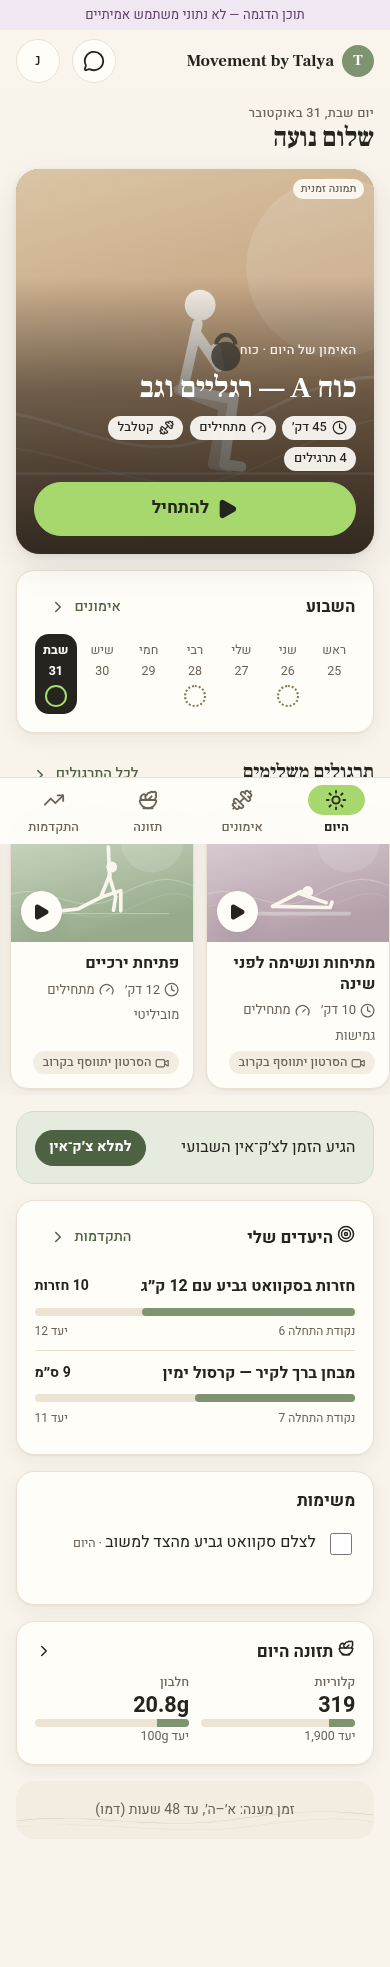
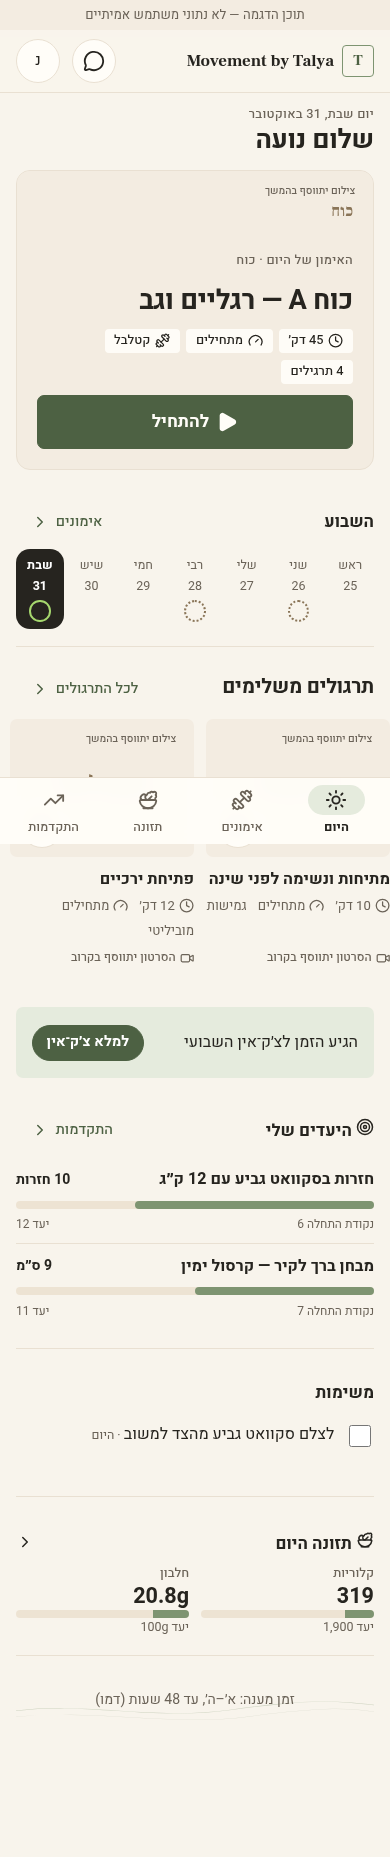
Refine visual design with quieter surfaces and honest photo fallbacks

diff --git a/web/src/styles.css b/web/src/styles.css
@@ -21,12 +21,12 @@
   --danger-soft: #f6e2de;
   --warn: #8a5d12;
   --warn-soft: #f6ead2;
-  --radius-lg: 24px;
-  --radius: 18px;
-  --radius-sm: 12px;
+  --radius-lg: 14px;
+  --radius: 10px;
+  --radius-sm: 7px;
   --tap: 2.75rem; /* 44px at default size, grows with text size */
-  --shadow: 0 1px 2px rgba(38, 36, 31, 0.05), 0 6px 20px rgba(38, 36, 31, 0.06);
-  --shadow-lift: 0 2px 6px rgba(38, 36, 31, 0.08), 0 14px 34px rgba(38, 36, 31, 0.1);
+  --shadow: none;
+  --shadow-lift: none;
   --font-head: 'Frank Ruhl Libre', 'Times New Roman', serif;
   --font-body: 'Heebo', system-ui, -apple-system, 'Segoe UI', Arial, sans-serif;
   font-family: var(--font-body);
@@ -45,7 +45,7 @@ button, input, select, textarea { font: inherit; color: inherit; }
 img, video { max-width: 100%; }
 
 /* Type scale */
-h1, h2 { font-family: var(--font-head); font-weight: 700; letter-spacing: -0.01em; }
+h1, h2 { font-family: var(--font-body); font-weight: 700; letter-spacing: -0.01em; }
 h1 { font-size: 1.65rem; line-height: 1.2; margin: 0 0 0.5rem; }
 h2 { font-size: 1.25rem; line-height: 1.25; margin: 0 0 0.5rem; }
 h3 { font-size: 1.05rem; line-height: 1.3; font-weight: 700; margin: 0 0 0.4rem; }
@@ -85,14 +85,14 @@ bdi { unicode-bidi: isolate; }
 }
 .tabbar a .pill { display: grid; place-items: center; width: 3.6rem; height: 1.9rem; border-radius: 999px; transition: background 0.2s; }
 .tabbar a.active { color: var(--ink); font-weight: 700; }
-.tabbar a.active .pill { background: var(--accent); }
+.tabbar a.active .pill { background: var(--sage-soft); }
 @media (min-width: 900px) {
   .tabbar { position: sticky; top: 3.4rem; max-width: 760px; margin: 0.5rem auto 0; border: 1px solid var(--line); border-radius: 22px; box-shadow: var(--shadow); }
   .main { padding-bottom: 2rem; }
 }
 .coachnav { display: flex; gap: 0.35rem; overflow-x: auto; padding: 0.5rem 1rem; border-block-end: 1px solid var(--line); background: var(--offwhite); }
 .coachnav a { white-space: nowrap; padding: 0.45rem 1rem; border-radius: 999px; text-decoration: none; color: var(--muted); min-height: 2.5rem; display: inline-flex; align-items: center; gap: 0.4rem; font-weight: 500; }
-.coachnav a.active { background: var(--accent); color: var(--ink); font-weight: 700; }
+.coachnav a.active { background: var(--sage-soft); color: var(--ink); font-weight: 700; }
 
 /* Surfaces */
 .card { background: var(--offwhite); border: 1px solid var(--line); border-radius: var(--radius); padding: 1.1rem; box-shadow: var(--shadow); margin-block-end: 1rem; }
@@ -163,8 +163,8 @@ textarea.input { min-height: 5.5rem; resize: vertical; }
 .badge.ok { background: var(--accent); color: var(--ink); }
 .badge.warn { background: var(--warn-soft); color: var(--warn); }
 .badge.danger { background: var(--danger-soft); color: var(--danger); }
-.badge.demo { background: #f1e7f3; color: #6a4572; }
-.demo-banner { background: #f1e7f3; color: #5e3f66; text-align: center; padding: 0.3rem; font-size: 0.82rem; }
+.badge.demo { background: var(--beige); color: var(--muted); }
+.demo-banner { background: var(--beige); color: var(--muted); text-align: center; padding: 0.3rem; font-size: 0.82rem; }
 .alert { padding: 0.75rem 1rem; border-radius: var(--radius-sm); background: var(--warn-soft); color: #6d4c16; margin-block-end: 0.75rem; }
 .alert.error { background: var(--danger-soft); color: var(--danger); }
 .alert.ok { background: var(--sage-soft); color: var(--sage-dark); }
@@ -316,3 +316,29 @@ textarea.input { min-height: 5.5rem; resize: vertical; }
 .attention-queue > .list > .card { margin: 0; border: 1px solid var(--line); }
 .chatlist { min-height: 12rem; background: var(--beige); }
 .chatlist .bubble { overflow-wrap: anywhere; }
+
+/* Editorial refinement: typography and real imagery carry the identity. */
+.page-intro { background: transparent; padding: .5rem 0 1rem; border-radius: 0; border-block-end: 1px solid var(--line); }
+.topbar { border-block-end: 1px solid var(--line); }
+.brand-mark { background: transparent; color: var(--sage-dark); border: 1px solid var(--sage); border-radius: 4px; }
+.cover-placeholder { background: var(--beige); display: flex; align-items: center; justify-content: center; padding: 2rem 1rem; }
+.cover-category { color: var(--sand-dark); font-family: var(--font-head); font-size: 1.7rem; font-weight: 700; }
+.cover-placeholder .ph-tag { background: transparent; font-size: .65rem; border-radius: 0; }
+.cover-placeholder.scrim::after { display: none; }
+.hero:has(.cover-placeholder) { background: var(--beige); color: var(--ink); border: 1px solid var(--line); }
+.hero:has(.cover-placeholder) .cover { aspect-ratio: auto; height: 5rem; justify-content: flex-start; padding: 1.25rem; }
+.hero:has(.cover-placeholder) .cover-category { font-size: 1rem; }
+.hero:has(.cover-placeholder) .hero-body { position: relative; padding: 0 1.25rem 1.25rem; }
+.hero:has(.cover-placeholder) .eyebrow { color: var(--muted); }
+.hero:has(.cover-placeholder) .display { font-family: var(--font-body); font-size: 1.7rem; line-height: 1.35; }
+.hero .btn.accent { background: var(--sage-dark); color: var(--offwhite); border-color: var(--sage-dark); border-radius: 7px; }
+.hero-body .tag { border-radius: 4px; }
+.wcard { border: 0; background: transparent; border-radius: 0; }
+.wcard .cover { border-radius: var(--radius-sm); }
+.wcard .wbody { padding-inline: 0; padding-block: .75rem 1rem; }
+.wcard .play { width: 2.75rem; height: 2.75rem; border: 1px solid var(--line); }
+.wcard .badge { background: transparent; padding-inline: 0; border-radius: 0; font-size: .75rem; }
+.wcard .badge.ok { color: var(--sage-dark); }
+.today-page > .card { background: transparent; border-width: 0 0 1px; border-radius: 0; padding-inline: 0; }
+.today-page > .card.sage { background: var(--sage-soft); border: 0; border-radius: var(--radius-sm); padding-inline: 1rem; }
+.presc-chips .tag { border-radius: 4px; }

diff --git a/web/src/client/ShareCard.tsx b/web/src/client/ShareCard.tsx
@@ -52,22 +52,6 @@ function drawCover(ctx: CanvasRenderingContext2D, img: HTMLImageElement) {
   ctx.drawImage(img, (SIZE.w - w) / 2, (SIZE.h - h) / 2, w, h);
 }
 
-function flowLines(ctx: CanvasRenderingContext2D, color: string, alpha: number, y0: number) {
-  ctx.save();
-  ctx.strokeStyle = color;
-  ctx.globalAlpha = alpha;
-  ctx.lineCap = 'round';
-  for (const [dy, lw] of [[0, 6], [70, 3.5]] as const) {
-    ctx.lineWidth = lw;
-    ctx.beginPath();
-    ctx.moveTo(-40, y0 + dy);
-    ctx.bezierCurveTo(260, y0 - 160 + dy, 520, y0 + 200 + dy, 780, y0 + 20 + dy);
-    ctx.bezierCurveTo(920, y0 - 70 + dy, 1020, y0 - 40 + dy, 1120, y0 + 10 + dy);
-    ctx.stroke();
-  }
-  ctx.restore();
-}
-
 function wrap(ctx: CanvasRenderingContext2D, text: string, maxW: number, maxLines: number): string[] {
   const words = text.split(/\s+/);
   const lines: string[] = [];
@@ -87,7 +71,7 @@ function Editor({ d }: { d: any }) {
   const user = useUser();
   const canvas = useRef<HTMLCanvasElement>(null);
   const stats = useMemo(() => shareStats(d), [d]);
-  const [bg, setBg] = useState<Bg>('sage');
+  const [bg, setBg] = useState<Bg>('sand');
   const [photo, setPhoto] = useState<HTMLImageElement | null>(null);
   const [note, setNote] = useState('');
   // Personal details (name, note, own photo) are off until the user turns them on.
@@ -129,14 +113,11 @@ function Editor({ d }: { d: any }) {
       } else if (bg === 'sea') {
         drawCover(ctx, await loadImage('/placeholders/sea.svg'));
       } else {
-        const g = ctx.createLinearGradient(0, 0, 300, SIZE.h);
-        if (bg === 'sand') { g.addColorStop(0, '#f8efe2'); g.addColorStop(1, '#d9bf98'); }
-        else { g.addColorStop(0, '#a3b596'); g.addColorStop(1, '#43563b'); }
-        ctx.fillStyle = g;
+        ctx.fillStyle = bg === 'sand' ? '#f3ece1' : '#4d6143';
         ctx.fillRect(0, 0, SIZE.w, SIZE.h);
-        ctx.fillStyle = dark ? 'rgba(255,255,255,0.10)' : 'rgba(126,148,113,0.16)';
-        ctx.beginPath(); ctx.arc(820, 420, 330, 0, Math.PI * 2); ctx.fill();
-        flowLines(ctx, dark ? '#ffffff' : '#7e9471', dark ? 0.28 : 0.45, 760);
+        ctx.strokeStyle = bg === 'sand' ? '#dccdb6' : '#7e9471';
+        ctx.lineWidth = 2;
+        ctx.beginPath(); ctx.moveTo(90, 250); ctx.lineTo(SIZE.w - 90, 250); ctx.stroke();
       }
       if (dark) {
         // Contrast scrim behind text over imagery.
@@ -258,8 +239,8 @@ function Editor({ d }: { d: any }) {
     ['sets', t('share.sets'), stats.sets != null], ['volume', t('share.volume'), stats.volume != null], ['effort', t('share.effort'), stats.effort != null],
   ];
   const bgs: { k: Bg; label: string; style: React.CSSProperties }[] = [
-    { k: 'sage', label: t('share.bg.sage'), style: { background: 'linear-gradient(160deg,#a3b596,#43563b)' } },
-    { k: 'sand', label: t('share.bg.sand'), style: { background: 'linear-gradient(160deg,#f8efe2,#d9bf98)' } },
+    { k: 'sage', label: t('share.bg.sage'), style: { background: '#4d6143' } },
+    { k: 'sand', label: t('share.bg.sand'), style: { background: '#f3ece1' } },
     { k: 'sea', label: t('share.bg.sea'), style: { backgroundImage: 'url(/placeholders/sea.svg)' } },
   ];
 

diff --git a/web/src/components/imagery.tsx b/web/src/components/imagery.tsx
@@ -1,12 +1,13 @@
 import { useAuth } from '../auth.tsx';
 import { useI18n } from '../i18n/index.tsx';
+import { STRINGS, type StringKey } from '../i18n/strings.ts';
 import { mediaUrl } from '../api.ts';
 
 const PLACEHOLDER_KEYS = ['strength', 'functional', 'pilates', 'yoga', 'running', 'mobility', 'flexibility', 'sea', 'recipe'] as const;
 export type CoverKind = (typeof PLACEHOLDER_KEYS)[number];
 
 /** Resolves the image for a workout/practice: its own photo, else the coach's category photo,
- *  else built-in placeholder artwork (flagged so the UI can label it). */
+ *  else the bundled placeholder source for canvas consumers. Cover renders a typographic fallback. */
 export function useCoverSrc(category?: string | null, mediaId?: string | null): { src: string; placeholder: boolean } {
   const { me } = useAuth();
   if (mediaId) return { src: mediaUrl(mediaId), placeholder: false };
@@ -22,10 +23,12 @@ export function Cover({ category, mediaId, scrim, className, children, showTag =
 }) {
   const { t } = useI18n();
   const { src, placeholder } = useCoverSrc(category, mediaId);
+  const categoryKey = (category === 'recipe' ? 'nutrition.recipes' : 'cat.' + category) as StringKey;
+  const categoryLabel = categoryKey in STRINGS ? t(categoryKey) : '';
   return (
-    <div className={'cover' + (scrim ? ' scrim' : '') + (className ? ' ' + className : '')}>
-      <img src={src} alt="" loading="lazy" decoding="async" />
-      {placeholder && showTag && <span className="ph-tag">{t('img.placeholder')}</span>}
+    <div className={'cover' + (placeholder ? ' cover-placeholder' : '') + (scrim ? ' scrim' : '') + (className ? ' ' + className : '')}>
+      {placeholder ? <span className="cover-category" aria-hidden="true">{categoryLabel}</span> : <img src={src} alt="" loading="lazy" decoding="async" />}
+      {placeholder && showTag && <span className="ph-tag">{t('img.awaitingPhoto')}</span>}
       {children}
     </div>
   );

diff --git a/web/src/i18n/strings.ts b/web/src/i18n/strings.ts
@@ -1,6 +1,7 @@
 // UI strings: [Hebrew, English]. Hebrew is the default. Wording avoids gendered verb forms
 // where possible (infinitives and nouns), and stays supportive around missed sessions.
 export const STRINGS = {
+  'img.awaitingPhoto': ['צילום יתווסף בהמשך', 'Photo to come'],
   'app.name': ['Movement by Talya', 'Movement by Talya'],
   'app.tagline': ['כוח, תנועה וגמישות — בקצב שלך', 'Strength, mobility and flexibility — at your pace'],
   'common.save': ['שמירה', 'Save'],

diff --git a/web/src/client/Today.tsx b/web/src/client/Today.tsx
@@ -61,7 +61,7 @@ export function Today() {
       {(d) => {
         const doneIds = new Set(d.practiceLogs.map((l: any) => l.media_id));
         return (
-          <div>
+          <div className="today-page">
             <div style={{ marginBottom: '0.9rem' }}>
               <div className="eyebrow">{fmtDate(today, { weekday: 'long', day: 'numeric', month: 'long' })}</div>
               <h1 style={{ margin: 0 }}>{t('today.hello', { name: user.name.split(' ')[0] })}</h1>

diff --git a/docs/DESIGN-REVIEW.md b/docs/DESIGN-REVIEW.md
@@ -1,6 +1,6 @@
 # Five-screen design review
 
-This review follows the supplied references: warm Pilates and sage mobility interfaces for daily use, editorial composition for covers, and restrained bright-green actions. These are working app captures at a 390px mobile viewport, using explicitly labeled demo data. Original placeholder illustrations are labeled; no reference photographs have been republished as product imagery.
+This review follows the supplied references: warm Pilates and sage mobility interfaces for daily use, editorial composition for covers, and restrained bright-green actions. These are working app captures at a 390px mobile viewport, using explicitly labeled demo data. Missing photos now use restrained category typography labeled “צילום יתווסף בהמשך”; uploaded photos retain priority. No reference photographs have been republished as product imagery.
 
 1. [Today](screenshots/review/1-today.png): prominent workout cover, one start action, week strip, complementary practices and compact goal summaries.
 2. [Guided library](screenshots/review/2-library.png): consistent image-led cards, duration, level, equipment and visible video availability.
@@ -8,4 +8,4 @@ This review follows the supplied references: warm Pilates and sage mobility inte
 4. [Goal progress](screenshots/review/4-goal-progress.png): measured values, dates, baseline and target use distinct visual styles; no projections.
 5. [Workout share card](screenshots/review/5-share-card.png): 1080×1920 export, selected recorded statistics, small brand mark, handle and demo label. Sharing remains user-initiated.
 
-The current heading font is Frank Ruhl Libre with Heebo for body text. The photographic direction can be evaluated fully after Talya supplies her own assets; category uploads already replace placeholders. Please review the warmth of the palette, heading style, card density and balance of imagery versus information before further platform-wide rollout.
+Interface headings and body text now use Heebo; Frank Ruhl Libre is reserved for brand and editorial moments. The photographic direction can be evaluated fully after Talya supplies her own assets; category uploads already replace placeholders. Updated after user feedback requesting a less AI-looking appearance: flatter surfaces, fewer nested cards, quieter navigation and a flat sand share-card background.

diff --git a/docs/DESIGN.md b/docs/DESIGN.md
@@ -16,3 +16,11 @@ Screens (demo data, phone viewport): `docs/screenshots/design/`
 - **Charts:** measured points (labeled values) are visually distinct from the dashed target line or shaded range and the dotted baseline. Dates are shown, method changes and long gaps are marked, and there are no projections. Hebrew labels are rendered as HTML so mixed text is never reordered.
 - **Brand moments:** subtle flowing lines appear only on the hero, the footer card and share cards.
 - **Accessibility:** RTL throughout, bidi-isolated numbers and units, 44px+ touch targets, status shown with text or icon as well as color, labeled icon-only buttons, WebVTT captions, `prefers-reduced-motion`, nothing that relies on hover.
+
+## Refinement after review — 2026-11-01
+
+The user asked for a less generic, less AI-looking direction. Interface headings now use Heebo; Frank Ruhl Libre is reserved for the wordmark, category covers and sharing. Surfaces use smaller corner radii, fine separators and no default elevation. Bright green remains for completion and selection, while the main Today action uses dark sage.
+
+When no actual photograph exists, Cover now shows a plain typographic category surface labeled “צילום יתווסף בהמשך”. Real practice photos and coach category uploads still take priority. We no longer enlarge abstract figure illustrations into hero photography. Today collapses the missing-photo hero into a compact text-first card. The library retains space for actual photography without raised nested cards. The default share background is flat sand with a fine divider; optional user photos remain supported.
+
+This supersedes the earlier placeholder-artwork and universal serif-heading directions. No stock or generated photography was introduced.

diff --git a/docs/HANDOFF.md b/docs/HANDOFF.md
@@ -36,3 +36,7 @@ Prepared an initial secondary-screen pass: recipe covers use the shared `Cover` 
 Validation: typecheck, all 17 tests (10 API + 7 shared), production build and browser journey. Browser runner accepts `PLAYWRIGHT_CHROMIUM_EXECUTABLE_PATH`; system Chromium is available at `/usr/bin/chromium` in this environment. Use an isolated DATA_DIR and SHOTS_DIR for checks.
 
 Next: collect feedback on the five-screen review before extending the design further; complete recipe sharing and coach planned-session preview; implement password reset and email notifications with Resend (selected by user). Resend credentials and a verified sender have not been configured. Keep credentials server-side. No deployment or GitHub push was performed in this continuation.
+
+### Visual refinement after feedback
+
+User approved continuing and requested a less AI-looking appearance. Applied a flatter editorial treatment, compact text-first covers when photos are missing, quieter navigation, Heebo interface headings, and a sand default share card without decorative gradient circles. Real uploaded photos still render normally. The earlier five-screen review pause is resolved. Resend remains the selected email provider; recipe sharing, planned-session preview and email work remain outstanding.
